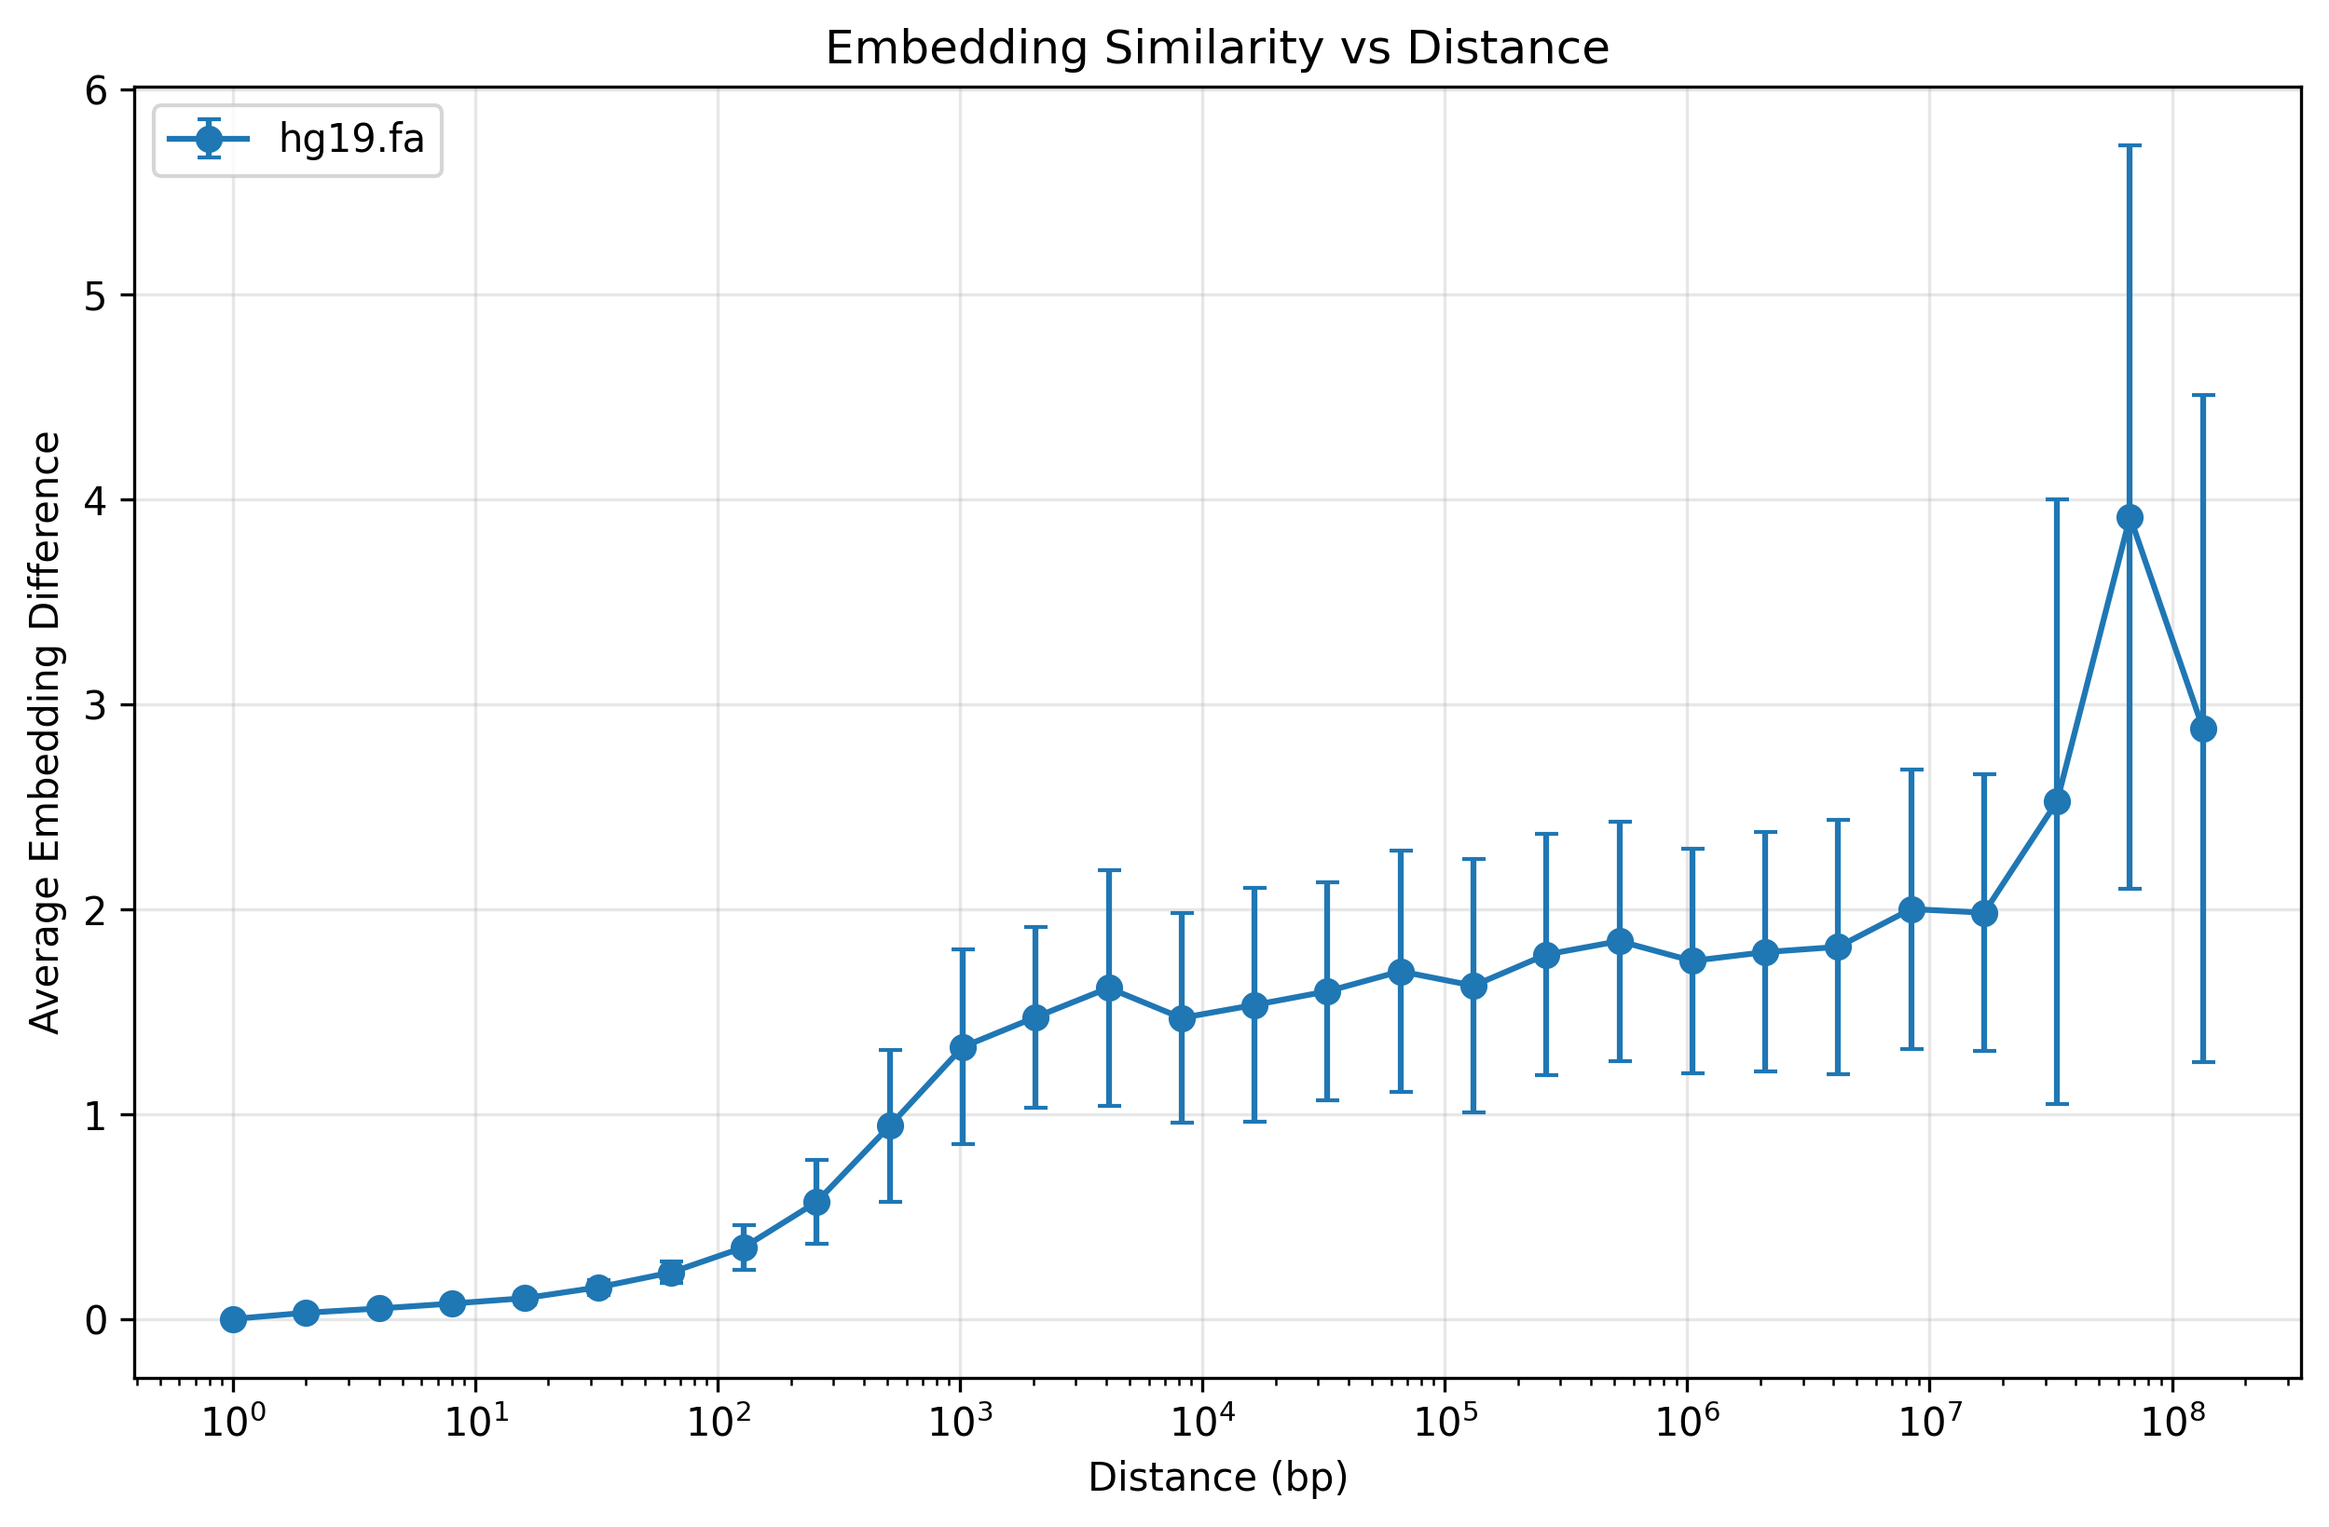
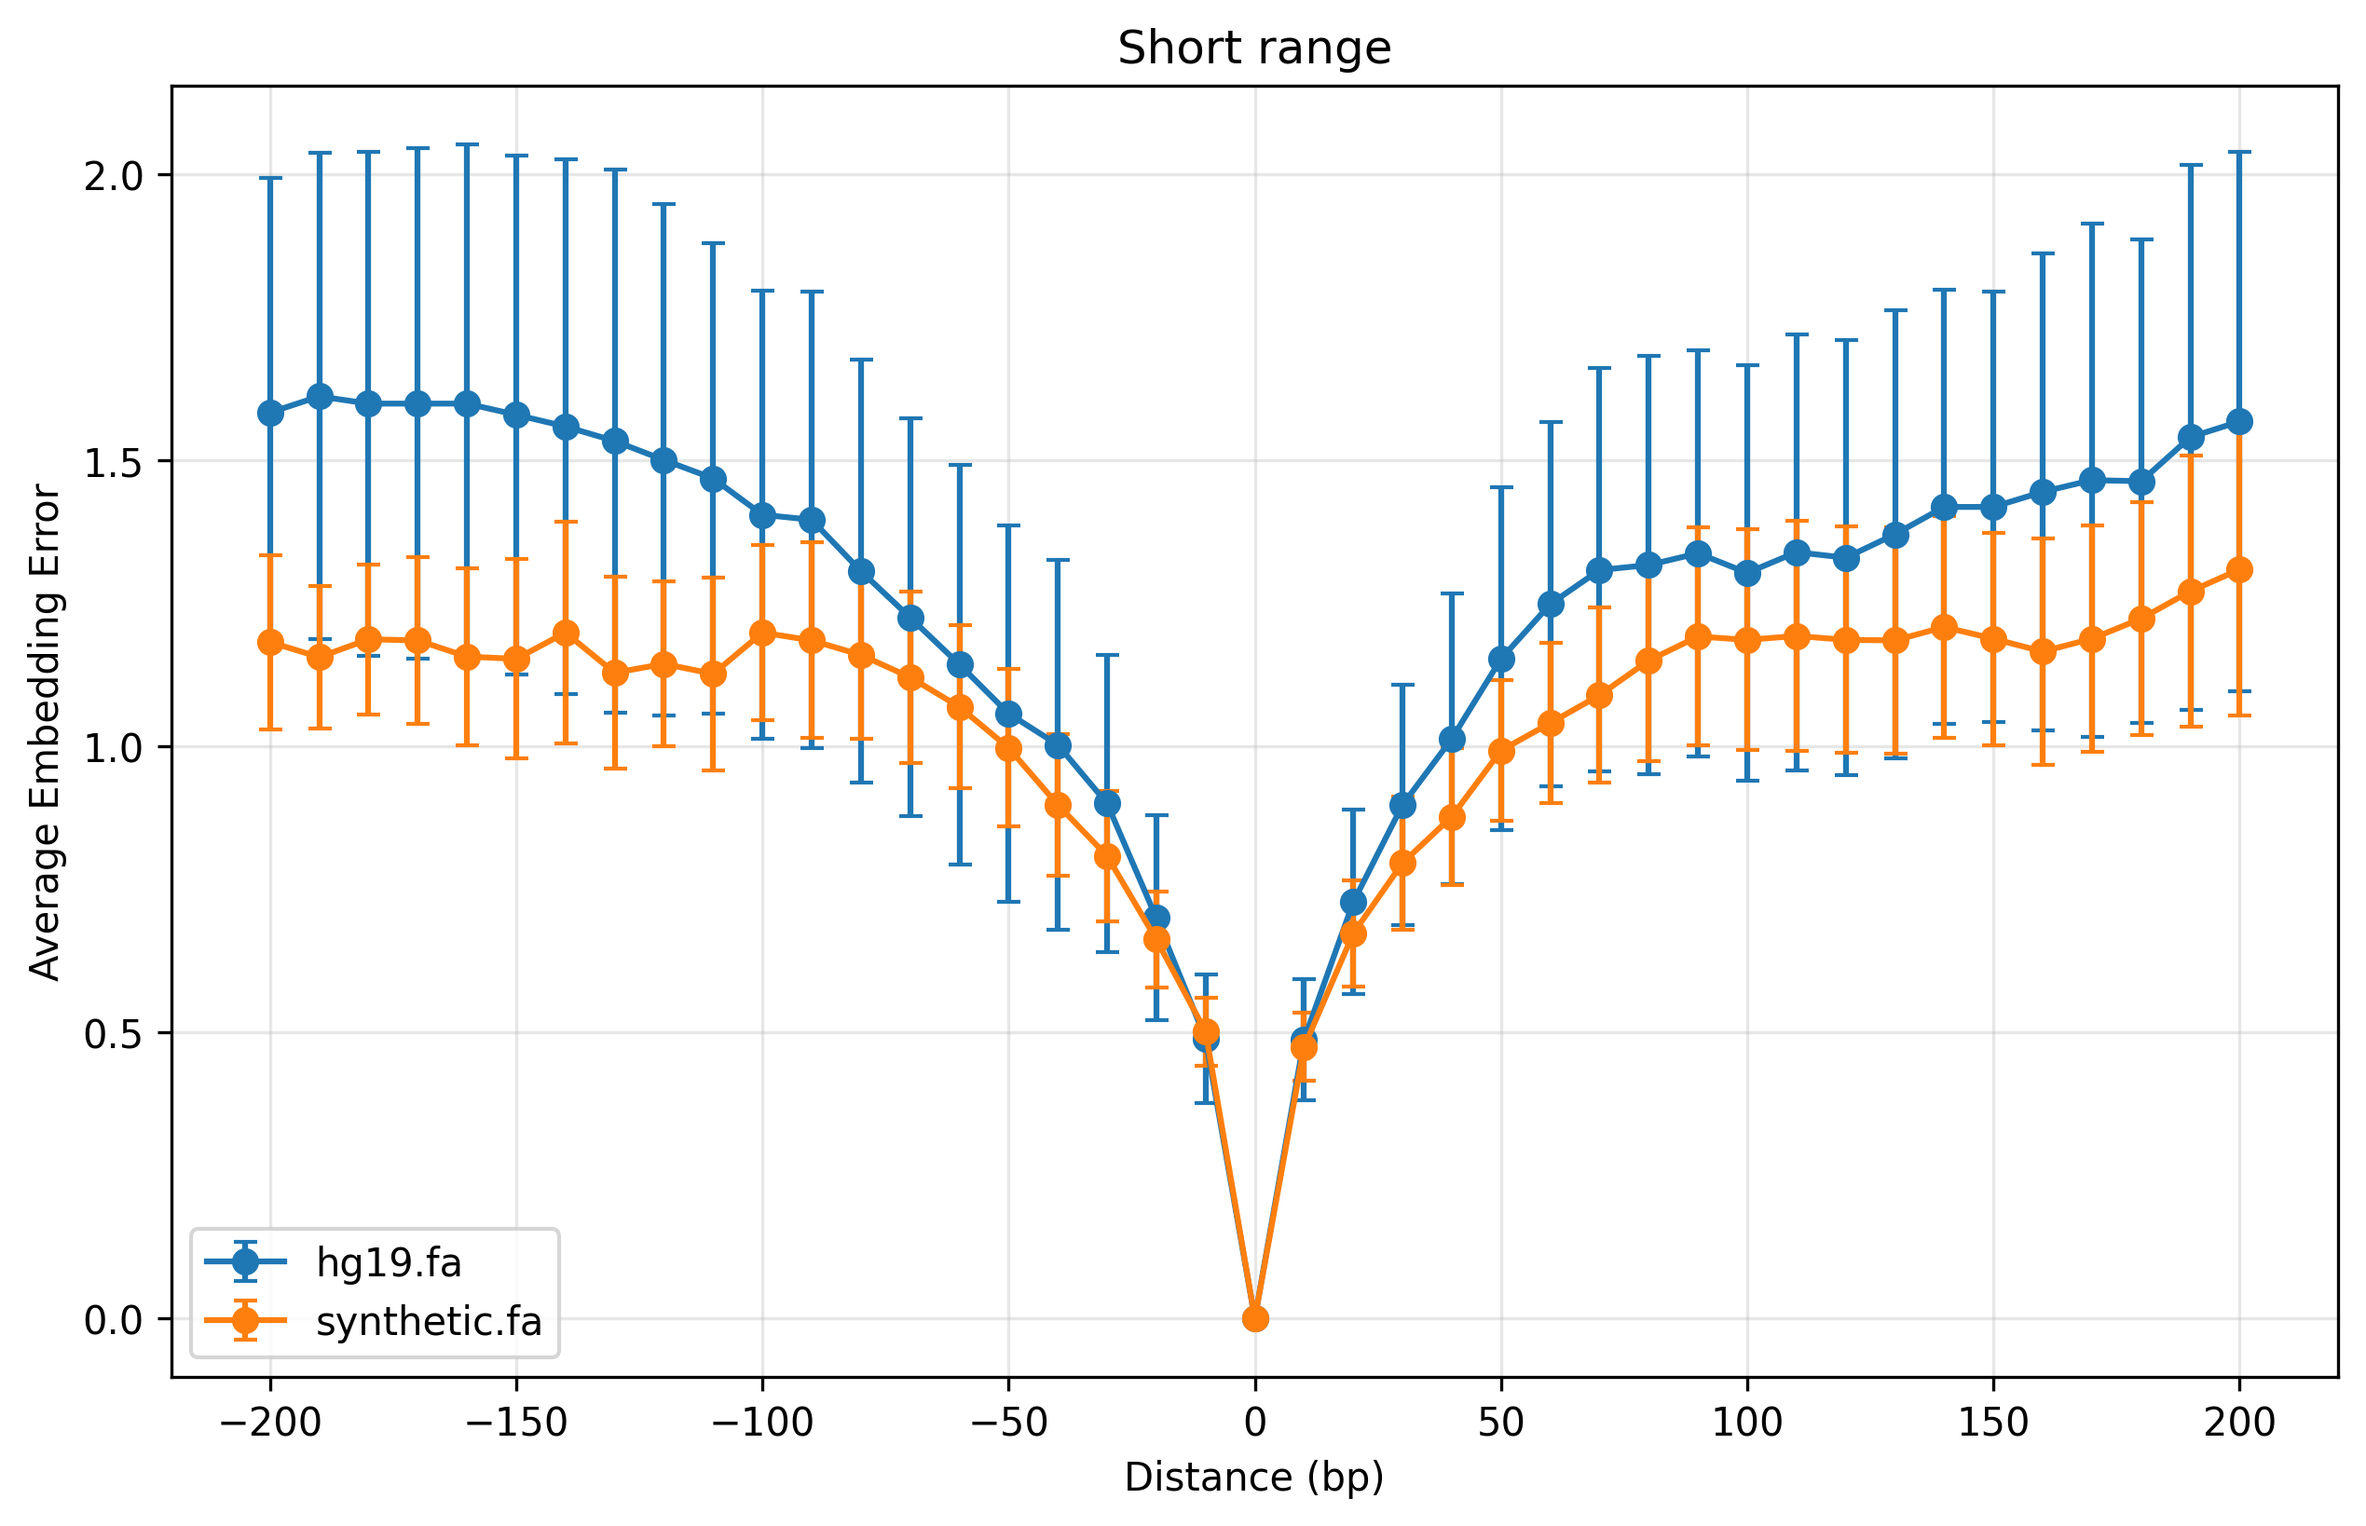
swt: bedtools overlap plot

diff --git a/src/analysis/embed_tests/swt.py b/src/analysis/embed_tests/swt.py
@@ -1,6 +1,8 @@
 import argparse
 import os
-from collections.abc import Iterable
+import subprocess
+import tempfile
+from collections.abc import Iterable, Sequence
 from pathlib import Path
 from random import random
 
@@ -10,43 +12,103 @@ import numpy as np
 from giggleml.data_wrangling.interval_dataset import MemoryIntervalDataset
 from giggleml.embed_gen.embed_pipeline import DirectPipeline
 from giggleml.models.hyena_dna import HyenaDNA
+from giggleml.utils.types import GenomicInterval
+
+
+def _mean(items: Iterable[float]) -> float:
+    items_list = list(items)
+    return sum(items_list) / len(items_list) if items_list else 0.0
+
+
+def _err(items: Iterable[float]) -> float:
+    items_list = list(items)
+    return (
+        # *2 due to matplotlib
+        2 * 1.96 * np.std(items_list) / np.sqrt(len(items_list)) if items_list else 0.0
+    )
+
+
+def _samples(ticks: list[int], interval_size: int):
+    chr = "chr1"
+    start = int(random() * 1e8)
+    yield (chr, start, start + interval_size)  # origin
+
+    for tick in ticks:
+        yield (chr, start + tick, start + tick + interval_size)
+
+
+def overlap_plot(
+    ticks: list[int],
+    interval_size: int = 1000,
+    trials: int = 50,
+):
+    def _write_bed(origin: GenomicInterval, others: Sequence[GenomicInterval]):
+        with tempfile.NamedTemporaryFile("w", delete=False) as file:
+            origin_terms = [str(x) for x in origin]
+            origin_str = "\t".join(origin_terms)
+
+            for interval in others:
+                terms = [str(x) for x in interval]
+                file.write(f"{origin_str}\t{'\t'.join(terms)}\n")
+            file.close()
+            return file.name
+
+    def _trial():
+        bed = None
+
+        try:
+            samples = list(_samples(ticks, interval_size))
+            origin = samples[0]
+            others = samples[1:]
+            bed = _write_bed(origin, others)
+
+            result = subprocess.run(
+                ["bedtools", "overlap", "-i", bed, "-cols", "2,3,5,6"],
+                capture_output=True,
+                text=True,
+                check=True,
+            ).stdout
+
+            return [int(line.split()[6]) for line in result.splitlines()]
+        finally:
+            if bed:
+                os.remove(bed)
+
+    samples = [_trial() for _ in range(trials)]
+    averages = [_mean(y) for y in zip(*samples)]
+    errs = [_err(y) for y in zip(*samples)]
+
+    plt.figure(figsize=(10, 6))
+
+    plt.errorbar(
+        ticks,
+        averages,
+        yerr=errs,
+        fmt="o-",
+        capsize=3,
+        capthick=1,
+    )
+
+    plt.xlabel("Distance (bp)")
+    plt.ylabel("Overlap")
+    plt.title("(Bedtools) overlap")
+    plt.grid(True, alpha=0.3)
+    return plt
 
 
 def swt(
     fastas: list[os.PathLike],
-    out_path: os.PathLike,
     ticks: list[int],
     interval_size: int = 1000,
     trials: int = 50,
     log_xscale: bool = True,
 ):
     def _trial(fasta: Path):
-        def _samples():
-            chr = "chr1"
-            start = int(random() * 1e8)
-            yield (chr, start, start + interval_size)  # origin
-
-            for tick in ticks:
-                yield (chr, start + tick, start + tick + interval_size)
-
-        samples = list(_samples())
+        samples = list(_samples(ticks, interval_size))
         dataset = MemoryIntervalDataset(samples, fasta)
         embeds = DirectPipeline(HyenaDNA("1k"), 5, 10).embed(dataset).detach().numpy()
         diffs = [np.linalg.norm(item - embeds[0]) for item in embeds]
         return diffs[1:]  # skip the extra item we added
-
-    def _mean(items: Iterable[float]) -> float:
-        items_list = list(items)
-        return sum(items_list) / len(items_list) if items_list else 0.0
-
-    def _err(items: Iterable[float]) -> float:
-        items_list = list(items)
-        return (
-            # *2 due to matplotlib
-            2 * 1.96 * np.std(items_list) / np.sqrt(len(items_list))
-            if items_list
-            else 0.0
-        )
 
     def _results(fasta: Path) -> tuple[list[int], list[float], list[float]]:
         samples = [_trial(fasta) for _ in range(trials)]
@@ -54,7 +116,6 @@ def swt(
         stderrs = [_err(y) for y in zip(*samples)]
         return ticks, averages, stderrs
 
-    out_path = Path(out_path)
     data = [_results(Path(fasta)) for fasta in fastas]
 
     plt.figure(figsize=(10, 6))
@@ -73,40 +134,11 @@ def swt(
     if log_xscale:
         plt.xscale("log")
     plt.xlabel("Distance (bp)")
-    plt.ylabel("Average Embedding Difference")
+    plt.ylabel("Average Embedding Error")
     plt.title("Embedding Similarity vs Distance")
     plt.legend()
     plt.grid(True, alpha=0.3)
-    plt.savefig(out_path, dpi=300, bbox_inches="tight")
-    plt.close()
-
-
-def long_range(
-    fastas: list[os.PathLike],
-    out_path: os.PathLike,
-    trials: int = 50,
-):
-    ticks = [2**x for x in range(28)]
-    swt(fastas, out_path, ticks, trials=trials)
-
-
-def short_range(
-    fastas: list[os.PathLike],
-    out_path: os.PathLike,
-    trials: int = 50,
-):
-    interval_size = 100
-    ticks = [
-        x for x in range(-interval_size * 2, interval_size * 2 + 1, interval_size // 10)
-    ]
-    swt(
-        fastas,
-        out_path,
-        ticks,
-        interval_size=interval_size,
-        trials=trials,
-        log_xscale=False,
-    )
+    return plt
 
 
 def main():
@@ -125,17 +157,43 @@ def main():
     parser.add_argument(
         "-m",
         "--mode",
-        choices=["short", "long"],
+        choices=["short", "long", "overlap"],
         default="short",
         help="Analysis mode: 'short' for short-range or 'long' for long-range (default: short)",
     )
 
     args = parser.parse_args()
 
+    interval_size = 100
+    long_ticks = [2**x for x in range(28)]
+    short_ticks = [
+        x for x in range(-interval_size * 2, interval_size * 2 + 1, interval_size // 10)
+    ]
+
     if args.mode == "short":
-        short_range(args.fastas, args.output, args.trials)
+        plt = swt(
+            args.fastas,
+            short_ticks,
+            interval_size,
+            args.trials,
+            log_xscale=False,
+        )
+        plt.title("Short range")
+    elif args.mode == "long":
+        plt = swt(
+            args.fastas,
+            long_ticks,
+            interval_size,
+            args.trials,
+        )
+        plt.title("Long range")
+    elif args.mode == "overlap":
+        plt = overlap_plot(short_ticks, interval_size, args.trials)
     else:
-        long_range(args.fastas, args.output, args.trials)
+        raise RuntimeError("unknown mode")
+
+    plt.savefig(args.output, dpi=300, bbox_inches="tight")
+    plt.close()
 
     print(f"Plot saved to {args.output}")
 
